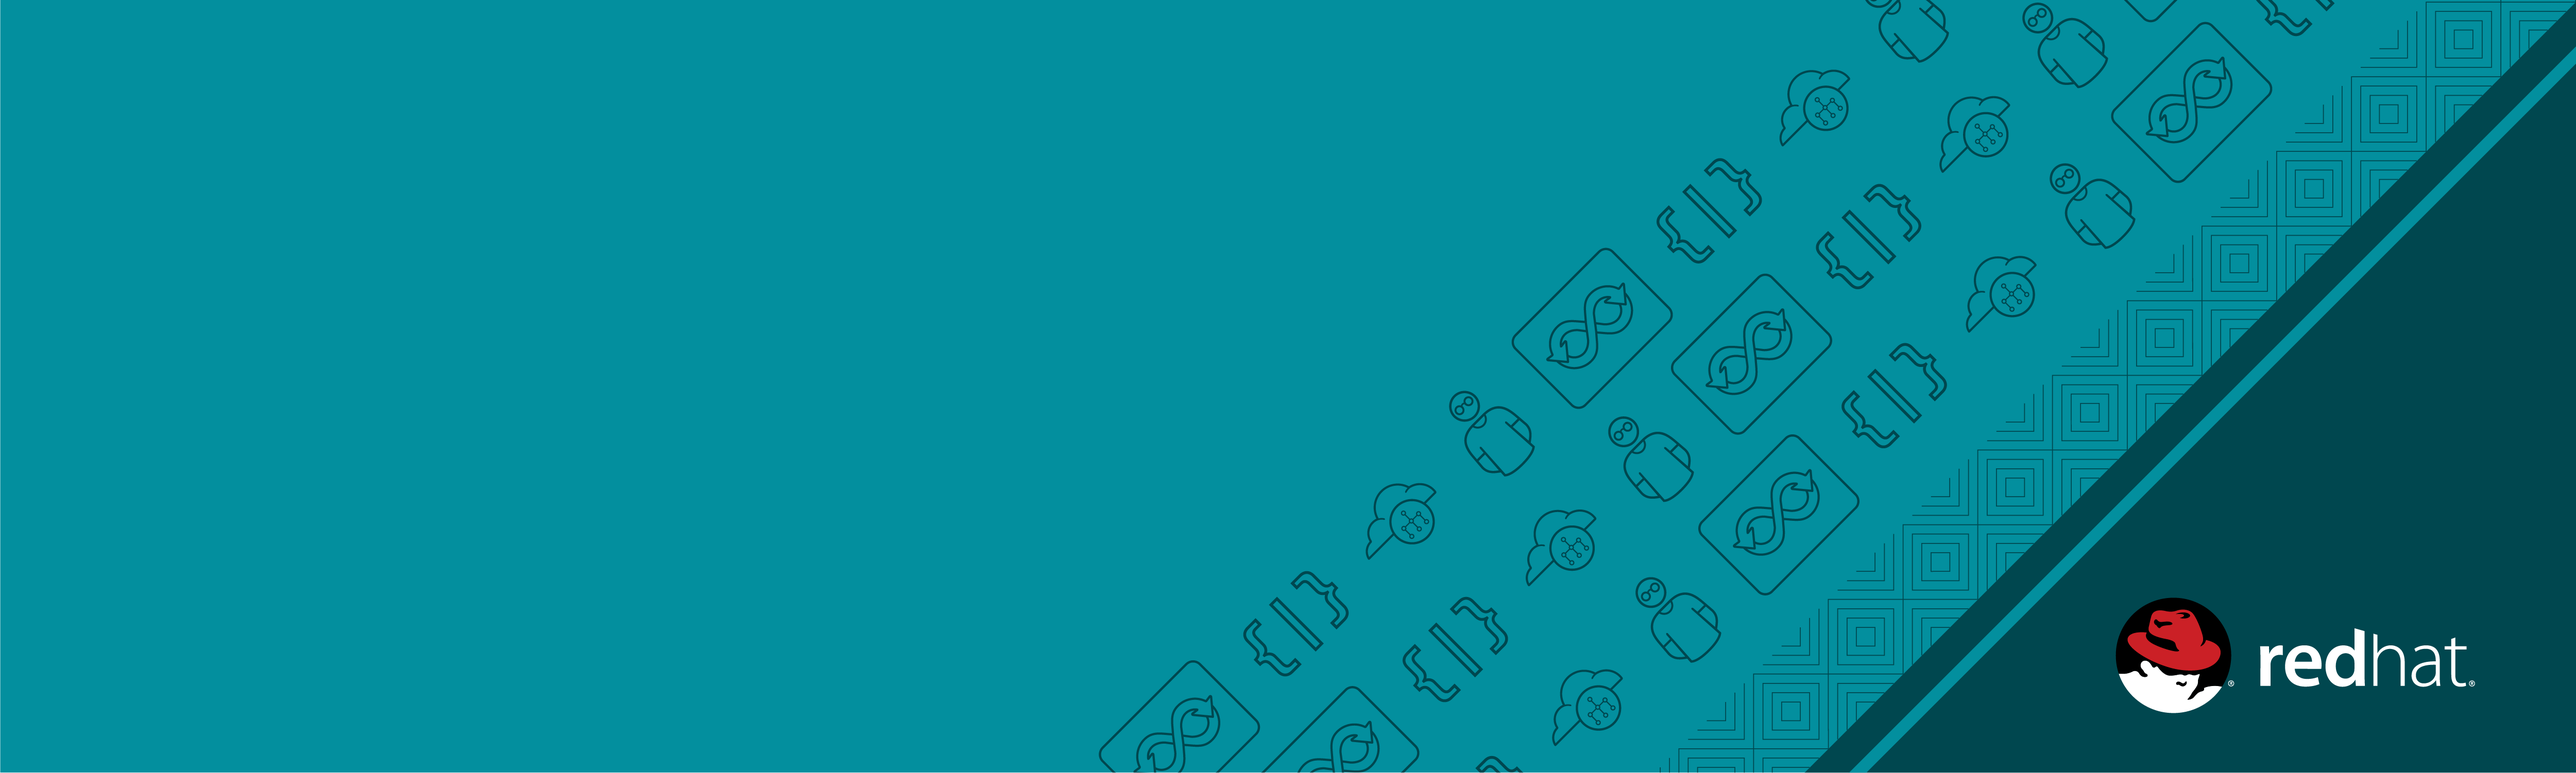
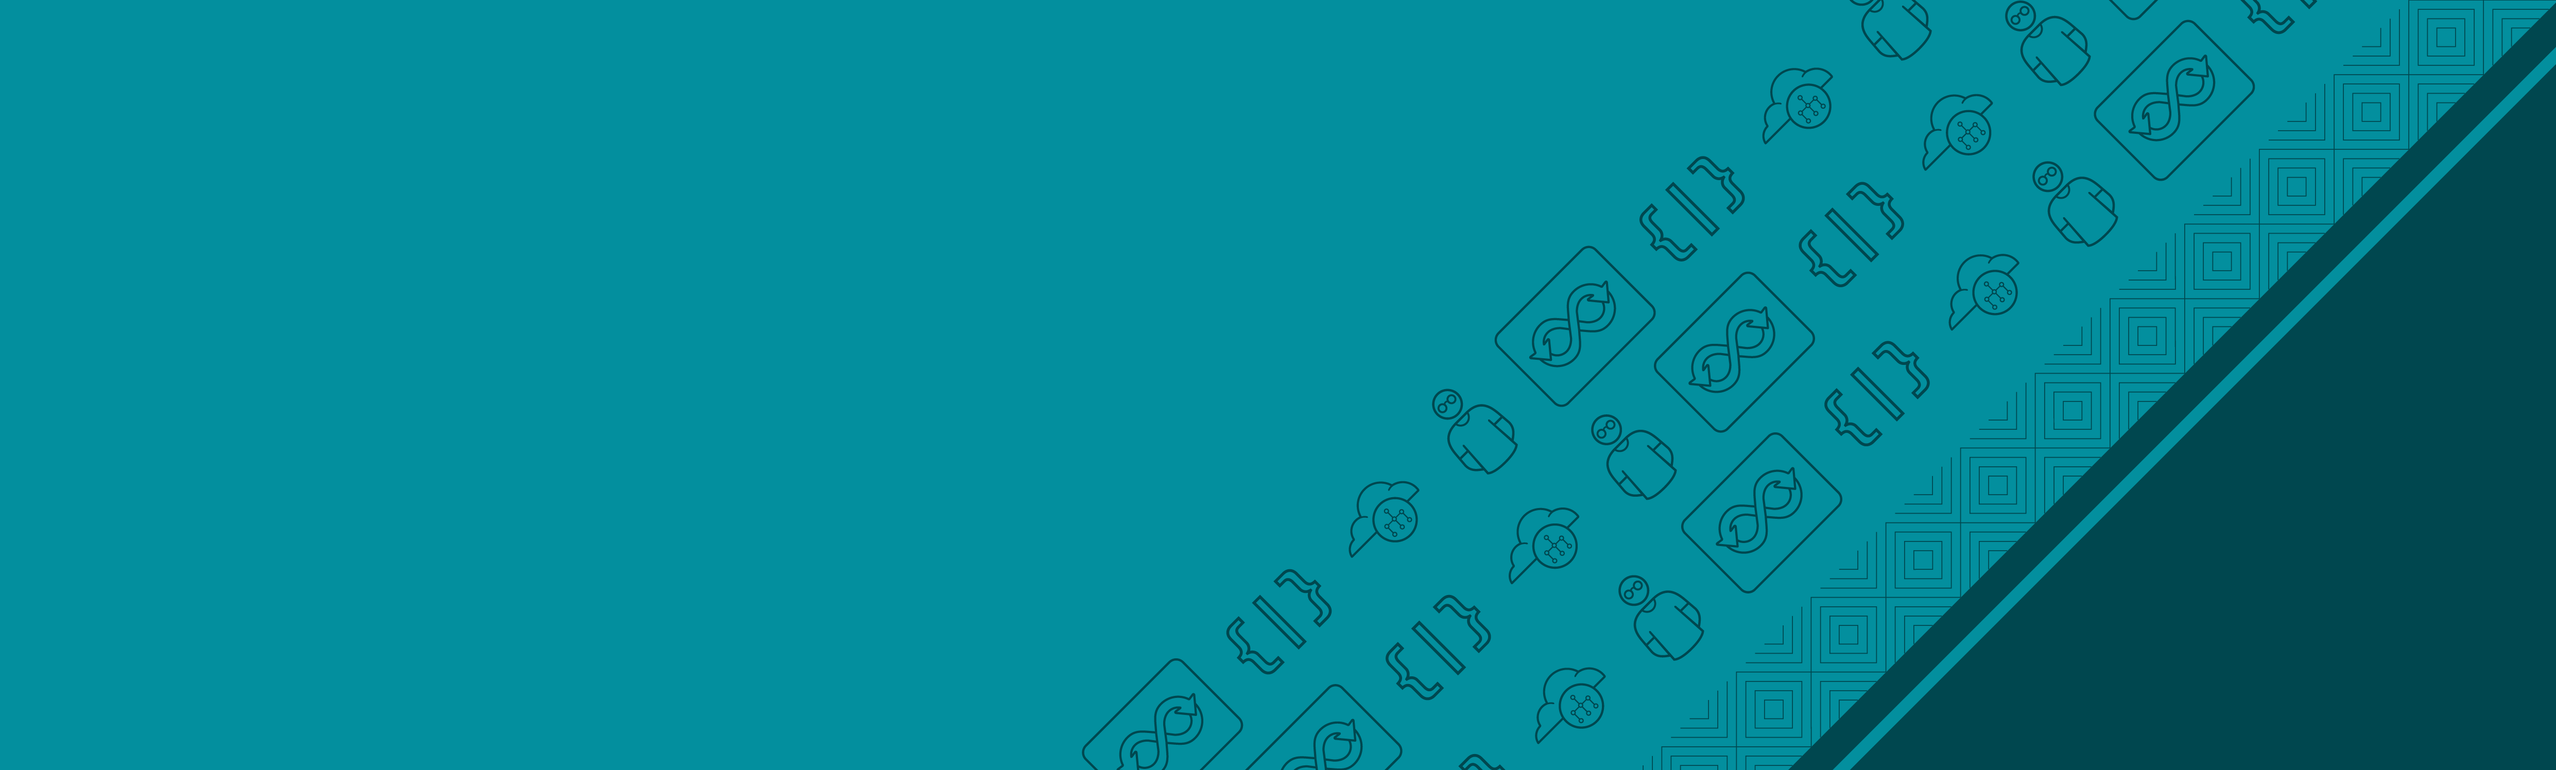
updated branding

diff --git a/branded-ui/katacoda/static/container-platform.css b/branded-ui/katacoda/static/container-platform.css
@@ -224,7 +224,7 @@ h2 {
 
 .masthead {
   background-color: #168F9D;
-  background-position: right bottom;
+  background-position: 140px top;
   background-attachment: scroll;
   background-size: cover;
   background-image: url("/static/bg-cloud-native.png");
@@ -241,10 +241,15 @@ h2 {
     color: inherit; }
   .masthead h1 {
     margin-bottom: 20px;
-    font-size: 42px;
+    font-size: 50px;
     margin-bottom: 20px;
     font-weight: bold;
+    font-family: 'Overpass', Helvetica, Arial, san-seriff;
     text-transform: uppercase; }
+  .masthead h3 {
+    font-family: 'Overpass', Helvetica, Arial, san-seriff;
+    font-size: 28px;
+    line-height: 41px;}
   .masthead h2 {
     margin-top: 20px; }
   .masthead .lead {
@@ -394,7 +399,7 @@ h2 {
     .masthead.masthead-logo {
       min-height: 350px; }
       .masthead.masthead-logo .container {
-        padding-top: 20px; } }
+        padding-top: 12px; } }
   .masthead.masthead-logo .logo-ose, .masthead.masthead-logo .logo-oso, .masthead.masthead-logo .logo-osd {
     margin: 40px 0 0 0;
     height: 70px;

diff --git a/branded-ui/katacoda/templates/index.html b/branded-ui/katacoda/templates/index.html
@@ -3,7 +3,7 @@
 <header class="masthead masthead-logo text-center">
   <div class="container text-center">
     <img class="logo-oso" src="https://www.openshift.com/images/logos/openshift/Logotype_RH_OpenShift_wLogo_RGB_White.svg" alt="Red Hat OpenShift Logo">
-    <h1>Containers &amp; Cloud-Native Roadshow</h1>
+    <h1>The Containers &amp; Cloud-Native Roadshow</h1>
     <p class="lead"></p>
   </div>
 </header>
